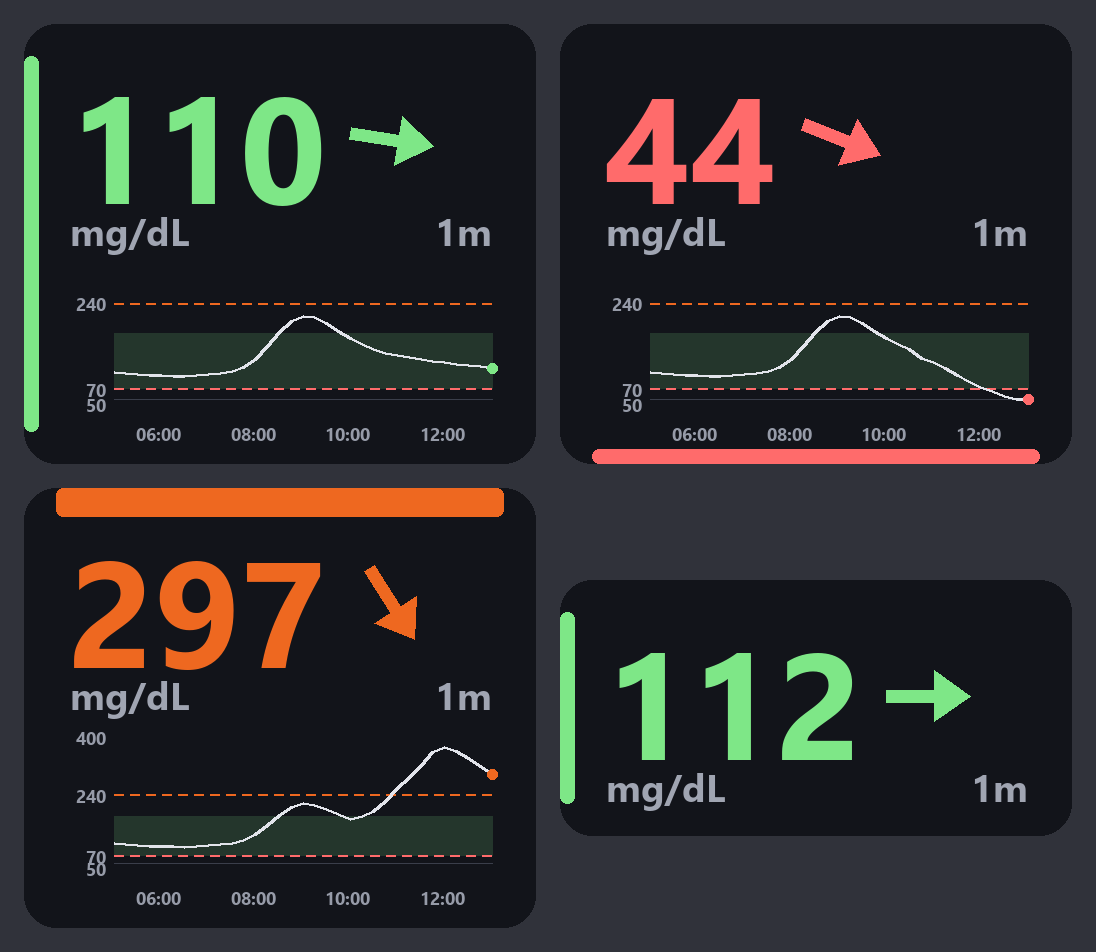
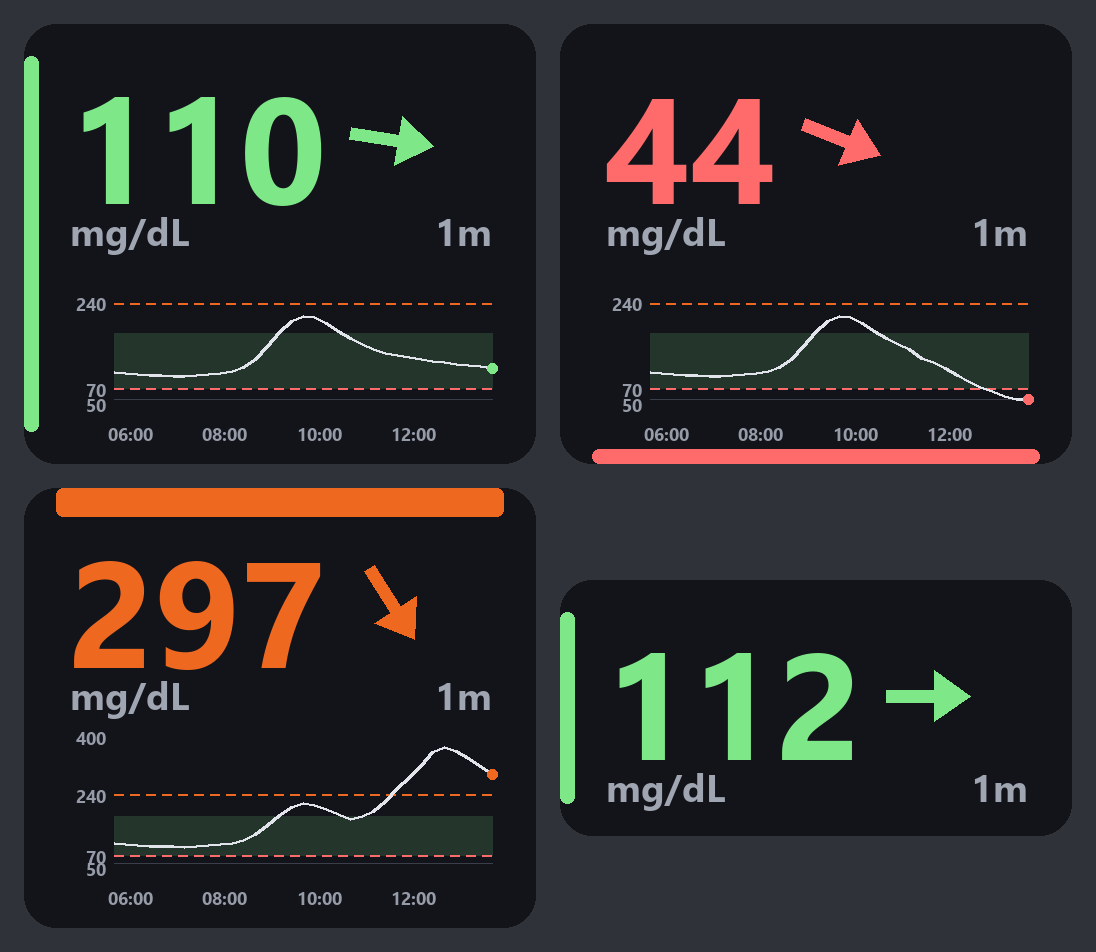
fix: render the preview at a fixed instant so its PNG stops moving
`preview-states.png` is committed and shown at the top of README.md,
and the times under the graph are taken from the clock, so rendering it
at five in the morning and at one in the afternoon produced different
labels and therefore different bytes. Running the tool at all dirtied
the working tree, which makes the documented verification step
something you have to clean up after.

`render()` takes the instant to draw at now, defaulting to the wall
clock, which is what both frontends want. Everything on the card that
moves comes off it -- the age readout, whether the reading has gone
stale, and the times along the graph -- so handing one in makes the
whole face reproducible. The tool pins one, and two renders are now
byte-identical.

The sheet is only reproducible per timezone, since the labels are
local. That is the right trade: they exist to be read against a clock
on a wall, and a UTC axis would be wrong for the reader to save a diff
for the committer.

Also guards the point count that caused the clipped-looking left edge.
480 minutes at one every fifteen is 33 samples, and all three series
assert it rather than being counted by hand again.

diff --git a/tools/preview.py b/tools/preview.py
@@ -39,6 +39,19 @@ from cgm.face.renderer import WatchFaceRenderer
 GAP = 24
 BACKDROP = (48, 50, 58, 255)
 
+# The instant the sheets are drawn at, fixed rather than taken from the
+# clock. `preview-states.png` is committed and shown in README.md, and
+# the times under the graph come from this: rendered at the wall clock
+# it would come out different every hour, so running the tool at all
+# would dirty the working tree. 13:40 in a UTC+9 timezone, which puts
+# the eight hour window's labels on 06:00 to 12:00.
+#
+# The labels are local, so the sheet is only reproducible per timezone.
+# That is enough for the job -- it stops moving under the person
+# rendering it -- and a UTC axis would be worse, since these are meant
+# to be read against a clock on a wall.
+ANCHOR = datetime(2026, 9, 7, 4, 40, tzinfo=timezone.utc)
+
 # Exactly the default window: 480 minutes at one point every fifteen is
 # 33 of them, and the count matters. One short and the trace starts a
 # few pixels in from the left of the plot while the band and the rules
@@ -60,6 +73,11 @@ HYPER = DAY[:21] + [178, 192, 221, 258, 288, 321, 356, 372, 361, 340, 318, 297]
 # And ending under the floor, which does not move.
 UNDER = DAY[:23] + [131, 122, 110, 96, 84, 73, 64, 55, 48, 44]
 
+# The bug this guards against has already happened once: at 32 the trace
+# stopped short of the left of the plot and it looked like a drawing
+# fault rather than fifteen minutes of missing sample.
+assert len(DAY) == len(HYPER) == len(UNDER) == POINTS
+
 
 def history(taken_at: datetime, values, step_min: float = GRAPH_RESOLUTION_MIN):
     """A series ending on `taken_at`, one point every `step_min`.
@@ -76,7 +94,7 @@ def history(taken_at: datetime, values, step_min: float = GRAPH_RESOLUTION_MIN):
 
 
 def reading(mgdl: float, trend: int, age_min: float, values=None) -> Reading:
-    taken_at = datetime.now(timezone.utc) - timedelta(minutes=age_min)
+    taken_at = ANCHOR - timedelta(minutes=age_min)
     return Reading(
         value_mgdl=mgdl,
         trend=trend,
@@ -95,7 +113,7 @@ def gapped(mgdl: float, trend: int) -> Reading:
     was measured in. Both halves together still fill the window, so the
     only thing missing from the picture is the thing being shown.
     """
-    taken_at = datetime.now(timezone.utc)
+    taken_at = ANCHOR
     before = history(taken_at - timedelta(minutes=195), DAY[:20])
     after = history(taken_at, [126, 118, 110, 104, 99, 103, 108, mgdl])
     return Reading(
@@ -108,18 +126,23 @@ def gapped(mgdl: float, trend: int) -> Reading:
     )
 
 
+def face(renderer: WatchFaceRenderer, of: Reading) -> Image.Image:
+    """Draw one tile at the anchor rather than at the wall clock."""
+    return renderer.render(of, now=ANCHOR)
+
+
 def showcase(plain: WatchFaceRenderer, graphed: WatchFaceRenderer) -> list:
     """What README.md shows. Four states, no explanation needed."""
     return [
         # Everything is fine, and the graph says how it got there.
-        graphed.render(reading(110, 3, 1, DAY)),
+        face(graphed, reading(110, 3, 1, DAY)),
         # Low: red, and the trace on the floor.
-        graphed.render(reading(44, 1, 1, UNDER)),
+        face(graphed, reading(44, 1, 1, UNDER)),
         # High: orange, and the axis grown to keep the peak on the chart.
-        graphed.render(reading(297, 2, 1, HYPER)),
+        face(graphed, reading(297, 2, 1, HYPER)),
         # And the same face without the graph, which is what rides the
         # controller in VR.
-        plain.render(reading(112, 3, 1)),
+        face(plain, reading(112, 3, 1)),
     ]
 
 
@@ -130,19 +153,19 @@ def debug(
     return [
         # Every marker edge, to be told apart at a glance: top for high,
         # a heavier top for very high, bottom for low.
-        plain.render(reading(214, 5, 3)),
-        plain.render(reading(268, 4, 2)),
-        plain.render(reading(64, 1, 1)),
+        face(plain, reading(214, 5, 3)),
+        face(plain, reading(268, 4, 2)),
+        face(plain, reading(64, 1, 1)),
         # Stale, on a low reading, because that is where two rules meet:
         # an hour-old 58 must go grey and outlined rather than red and
         # bottom-lit, or it would still be claiming the arm is dropping.
-        plain.render(reading(58, 2, 41)),
+        face(plain, reading(58, 2, 41)),
         plain.render_message("NO CONNECTION", detail="no reading yet"),
         # A gap in scanning. The line breaks rather than spanning it.
-        graphed.render(gapped(107, 2)),
+        face(graphed, gapped(107, 2)),
         # And in mmol/L, where the level labels convert and nothing
         # behind them does.
-        mmol.render(reading(110, 3, 1, DAY)),
+        face(mmol, reading(110, 3, 1, DAY)),
     ]
 
 

diff --git a/tests/test_graph.py b/tests/test_graph.py
@@ -355,6 +355,22 @@ class CanvasSize(unittest.TestCase):
             renderer.render(_reading()).size, (renderer.width, renderer.height)
         )
 
+    def test_a_face_drawn_at_a_given_instant_is_reproducible(self):
+        # tools/preview.py commits a PNG, so the card has to be able to
+        # come out the same twice. Everything on it that moves -- the
+        # age, whether it has gone stale, the times under the graph --
+        # comes off the `now` handed in.
+        renderer = WatchFaceRenderer(graph=TUNING)
+        first = renderer.render(_reading(), now=NOW).tobytes()
+        second = renderer.render(_reading(), now=NOW).tobytes()
+        self.assertEqual(first, second)
+
+    def test_the_instant_is_what_decides_the_age(self):
+        renderer = WatchFaceRenderer()
+        fresh = renderer.render(_reading(), now=NOW)
+        later = renderer.render(_reading(), now=NOW + timedelta(hours=3))
+        self.assertNotEqual(fresh.tobytes(), later.tobytes())
+
     def test_a_message_card_is_the_same_size_as_a_reading(self):
         # Both frontends size themselves from the image. A message card
         # of a different height would resize the window, or reallocate

diff --git a/src/cgm/face/renderer.py b/src/cgm/face/renderer.py
@@ -349,14 +349,23 @@ class WatchFaceRenderer:
 
     # -- public API ---------------------------------------------------------
 
-    def render(self, reading, *, stale_after_min: float = 10.0) -> Image.Image:
+    def render(
+        self, reading, *, stale_after_min: float = 10.0, now=None
+    ) -> Image.Image:
         """Draw the watch face for a reading.
 
         Readings older than stale_after_min go grey with the age
         emphasised. The last value stays on screen when the network drops,
         so it has to be obvious when it is no longer current.
+
+        `now` is the instant the face is being drawn at, and defaults to
+        the wall clock, which is what both frontends want. Passing one
+        makes the whole card reproducible -- the age readout, whether it
+        has gone stale, and the times under the graph -- which is what
+        lets tools/preview.py commit a PNG that does not change every
+        time it is rendered.
         """
-        age = reading.age_minutes()
+        age = reading.age_minutes(now)
         is_stale = age >= stale_after_min
 
         mgdl = reading.value_mgdl
